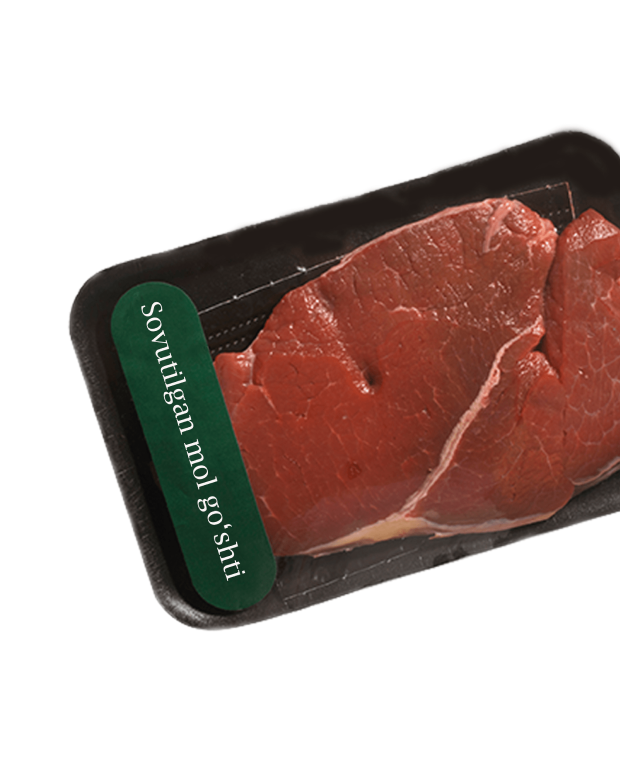
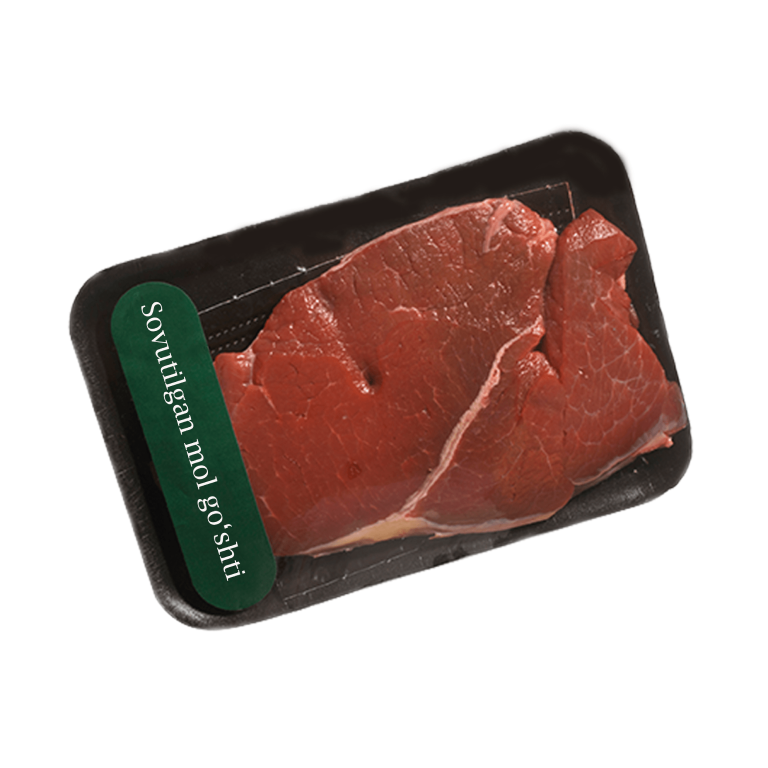
home screen completed

Changed region(s): [[0.0919, 0.1562, 1.0, 0.8438]]

diff --git a/lib/features/home/screens/home.dart b/lib/features/home/screens/home.dart
@@ -5,6 +5,7 @@ import 'package:my_dmtt/constants/labels.dart';
 import '../../../constants/app_colors.dart';
 import '../../../constants/app_text_styles.dart';
 import '../widgets/action_button.dart';
+import '../widgets/product_home_container.dart';
 import '../widgets/product_search.dart';
 import '../widgets/section_title.dart';
 
@@ -128,10 +129,58 @@ class _HomeScreenState extends State<HomeScreen> {
           const SectionTitle(
             title: "Mahsulotlar 👌",
           ),
-          SliverList(
-            delegate: SliverChildBuilderDelegate((context, index) {
-              return Container();
-            }),
+          SliverToBoxAdapter(
+            child: Container(
+              height: 369,
+              child: ListView(
+                padding: const EdgeInsets.symmetric(horizontal: 16, vertical: 16),
+                scrollDirection: Axis.horizontal,
+                children: [
+                  ProductHomeContainer(
+                    productImage: AppAssets.images.productTomato,
+                    productTitle: "Pomidor",
+                    productQuantity: 43,
+                    productSeller: "Abdusalom Yuk...",
+                  ),
+                  const SizedBox(width: 16),
+                  ProductHomeContainer(
+                    productImage: AppAssets.images.productMeat,
+                    productTitle: "Mol go'shti",
+                    productQuantity: 130,
+                    productSeller: "Chorvador F/X",
+                  ),
+                  const SizedBox(width: 16),
+                  ProductHomeContainer(
+                    productImage: AppAssets.images.productTomato,
+                    productTitle: "Pomidor",
+                    productQuantity: 43,
+                    productSeller: "Abdusalom Yuk...",
+                  ),
+                  const SizedBox(width: 16),
+                  ProductHomeContainer(
+                    productImage: AppAssets.images.productMeat,
+                    productTitle: "Mol go'shti",
+                    productQuantity: 130,
+                    productSeller: "Chorvador F/X",
+                  ),
+                  const SizedBox(width: 16),
+                  ProductHomeContainer(
+                    productImage: AppAssets.images.productTomato,
+                    productTitle: "Pomidor",
+                    productQuantity: 43,
+                    productSeller: "Abdusalom Yuk...",
+                  ),
+                  const SizedBox(width: 16),
+                  ProductHomeContainer(
+                    productImage: AppAssets.images.productMeat,
+                    productTitle: "Mol go'shti",
+                    productQuantity: 130,
+                    productSeller: "Chorvador F/X",
+                  ),
+                  const SizedBox(width: 16),
+                ],
+              ),
+            ),
           ),
         ],
       ),

diff --git a/lib/features/home/widgets/product_home_container.dart b/lib/features/home/widgets/product_home_container.dart
@@ -1,0 +1,74 @@
+import 'package:flutter/material.dart';
+
+import '../../../constants/app_colors.dart';
+import '../../../constants/app_text_styles.dart';
+
+class ProductHomeContainer extends StatelessWidget {
+  const ProductHomeContainer({
+    super.key,
+    required this.productImage,
+    required this.productTitle,
+    required this.productQuantity,
+    required this.productSeller,
+  });
+
+  final String productImage;
+  final String productTitle;
+  final double productQuantity;
+  final String productSeller;
+
+  @override
+  Widget build(BuildContext context) {
+    return Container(
+      height: 337,
+      width: 220,
+      padding: const EdgeInsets.fromLTRB(14, 14, 14, 16),
+      decoration: BoxDecoration(
+        borderRadius: BorderRadius.circular(28),
+        color: Colors.white,
+        boxShadow: [
+          BoxShadow(
+            color: const Color(0xFF04060F).withOpacity(0.05),
+            spreadRadius: 0,
+            blurRadius: 60,
+            offset: const Offset(0, 4),
+          ),
+        ],
+      ),
+      child: Column(
+        crossAxisAlignment: CrossAxisAlignment.start,
+        children: [
+          Image.asset(
+            width: 192,
+            height: 192,
+            productImage,
+          ),
+          const SizedBox(height: 12),
+          Text(
+            productTitle,
+            style: AppTextStyles.boldStyle.copyWith(
+              fontSize: 20,
+              color: AppColors.greyscaleLight,
+            ),
+          ),
+          const SizedBox(height: 14),
+          Text(
+            "Qoldiqda - $productQuantity kg",
+            style: AppTextStyles.mediumStyle.copyWith(
+              fontSize: 12,
+              color: AppColors.greyscaleLight.shade700,
+            ),
+          ),
+          const SizedBox(height: 14),
+          Text(
+            productSeller,
+            style: AppTextStyles.boldStyle.copyWith(
+              fontSize: 20,
+              color: AppColors.primaryLight,
+            ),
+          ),
+        ],
+      ),
+    );
+  }
+}

diff --git a/lib/constants/app_assets.dart b/lib/constants/app_assets.dart
@@ -50,4 +50,7 @@ class AppImages extends AssetsFolder {
   String get categoryMilk => '$basePath/milk.png';
   String get categoryApple => '$basePath/apple.png';
   String get categoryOthers => '$basePath/other.png';
+
+  String get productTomato => '$basePath/tomato.png';
+  String get productMeat => '$basePath/frozen-meat.png';
 }
